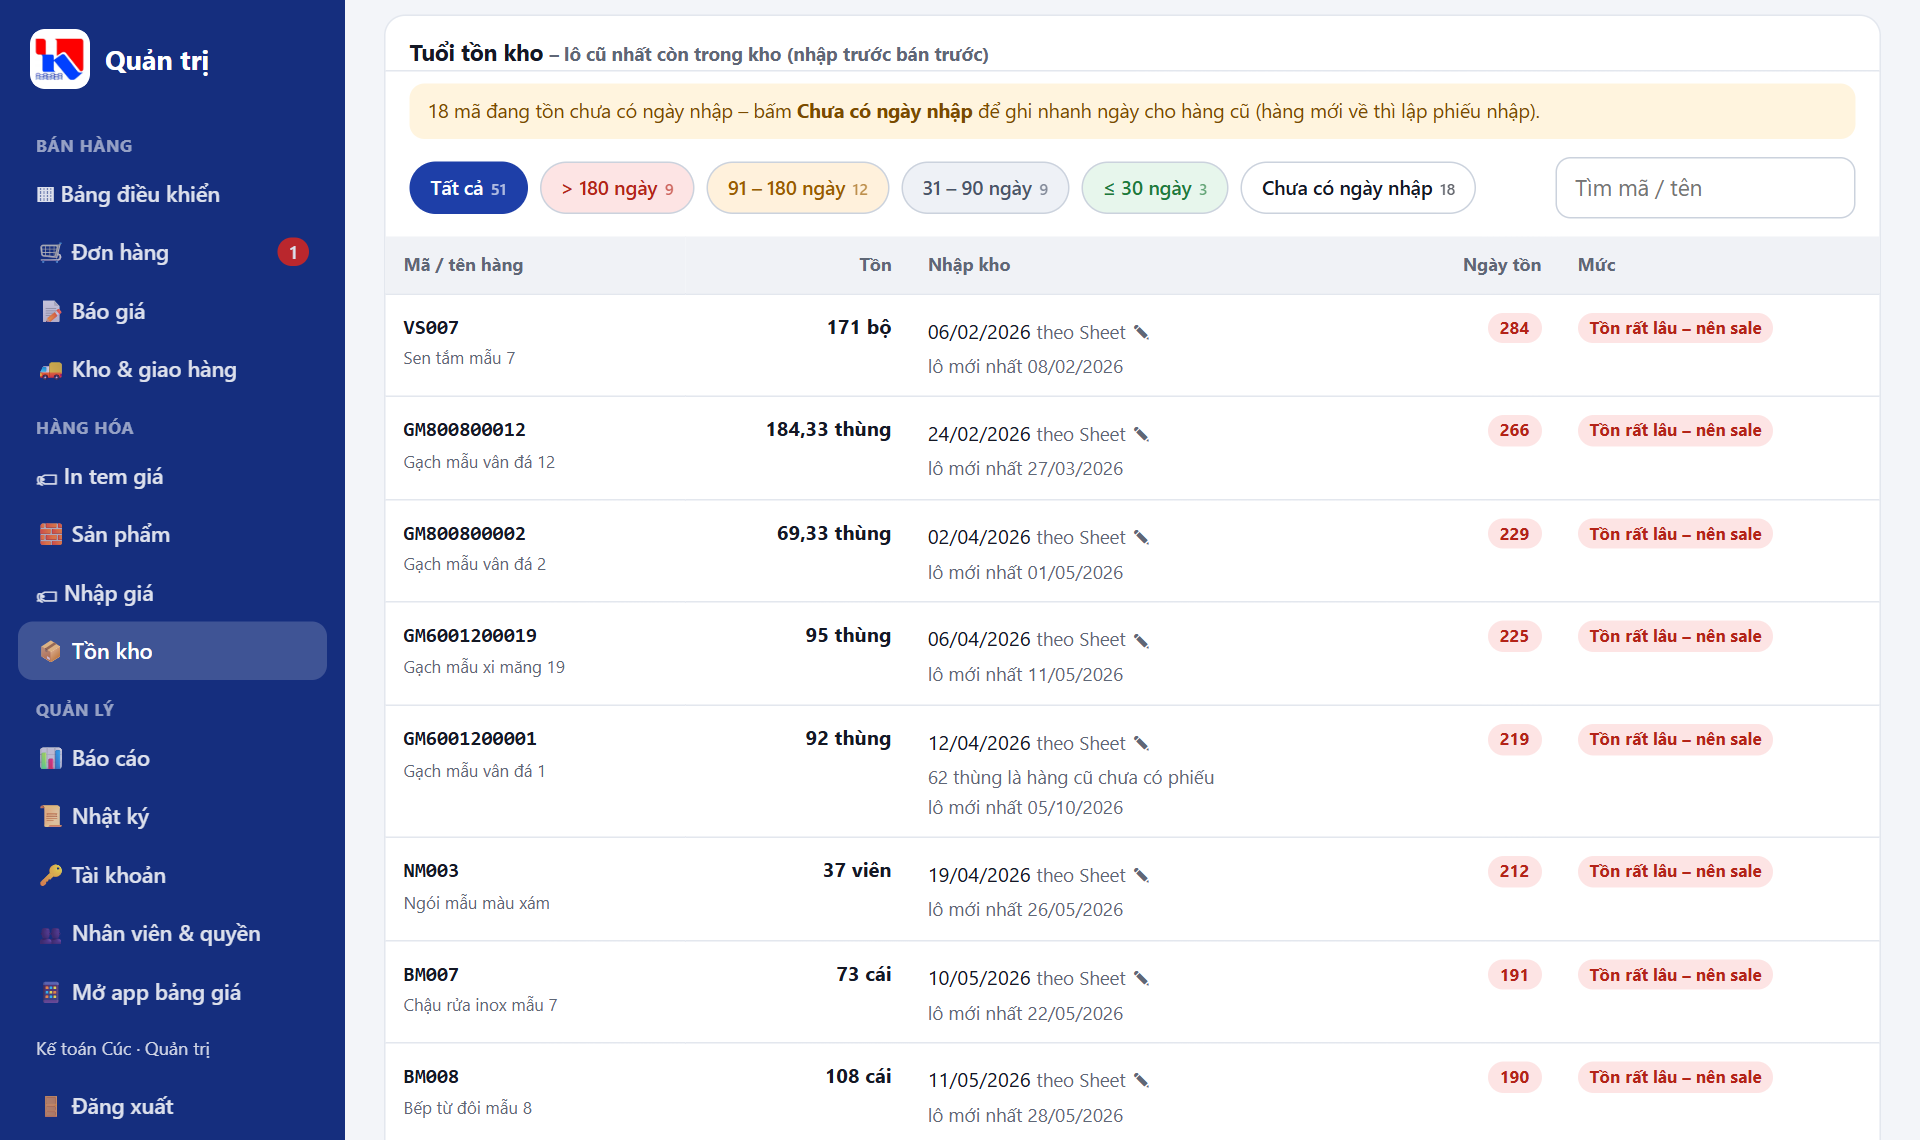
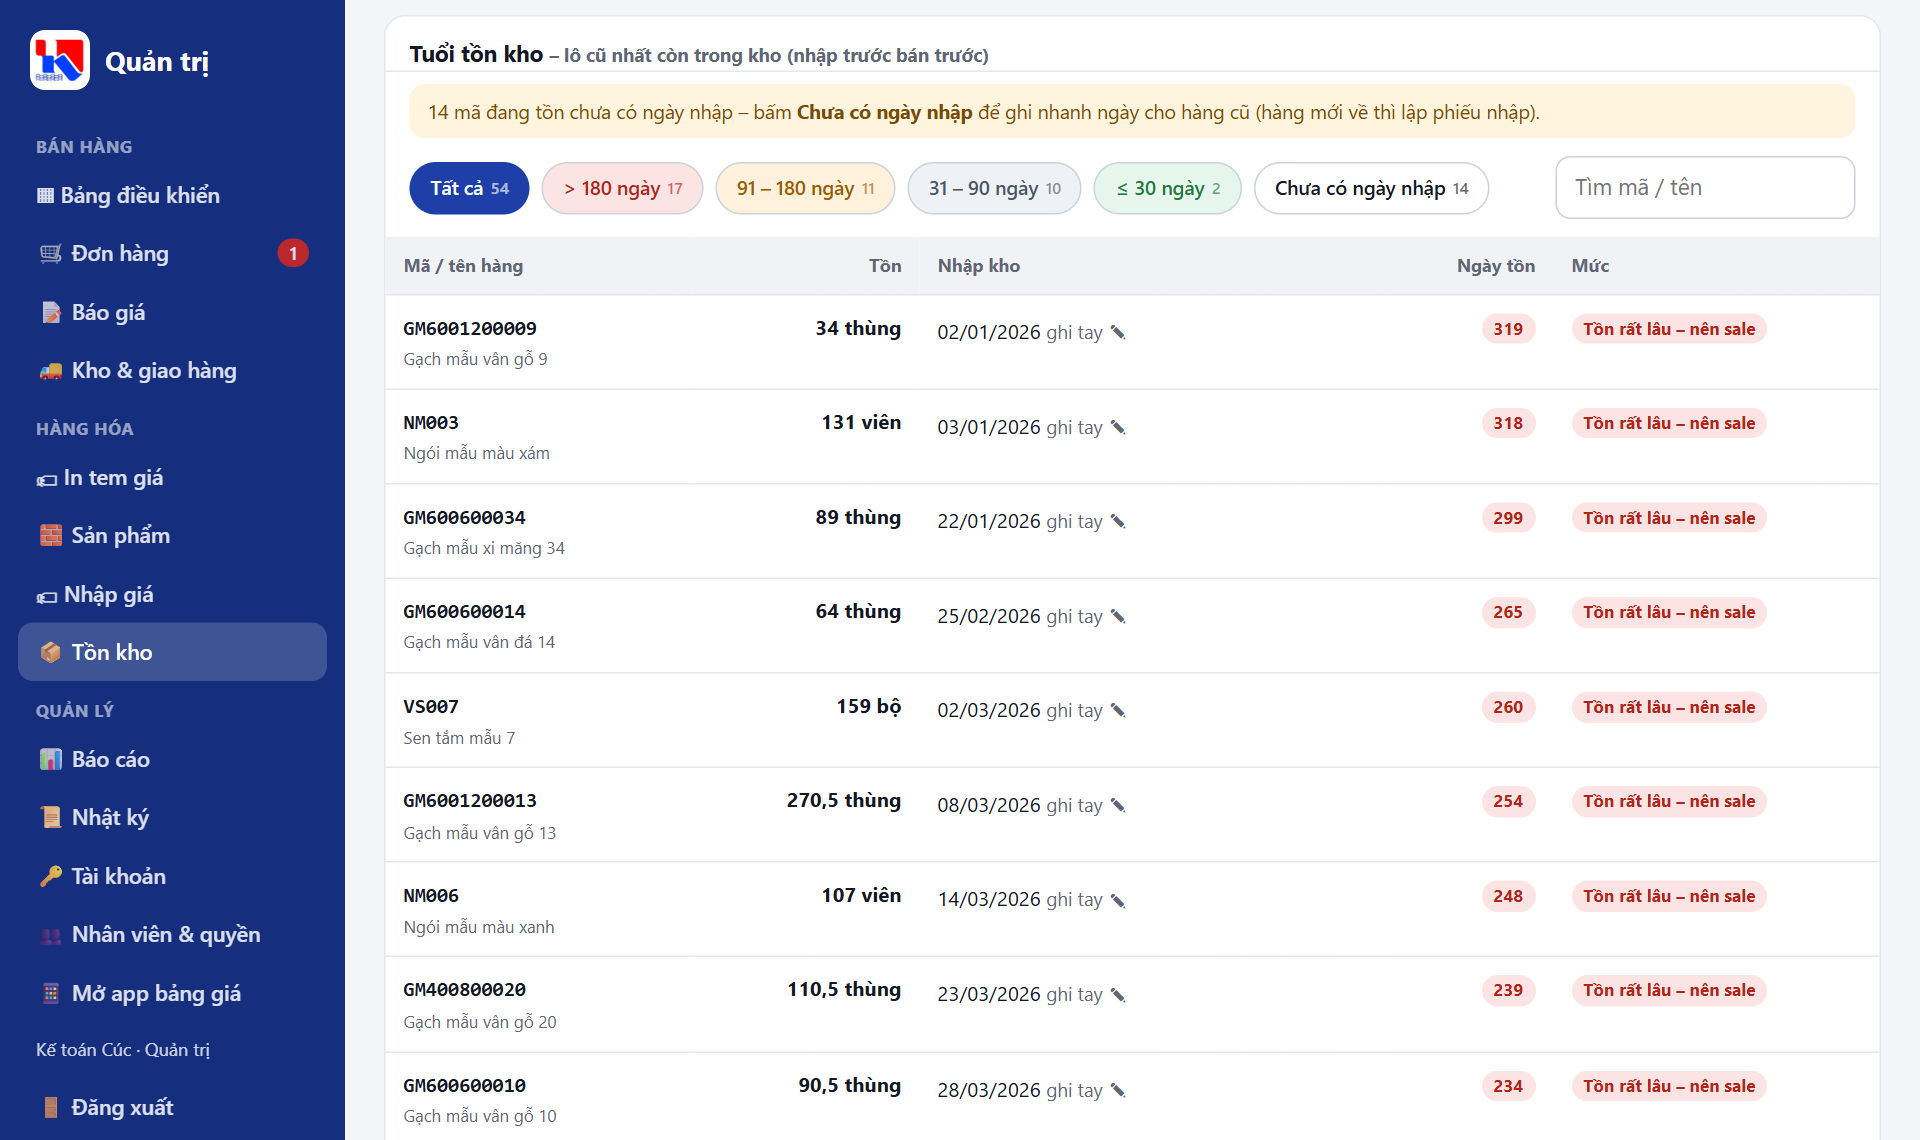
docs: video 3 cap nhat - ngay nhap hang cu la ngay ghi tay; demo: ngay nhap luu nhu ghi tay

diff --git a/huong-dan/nguon-video-3/canh3.js b/huong-dan/nguon-video-3/canh3.js
@@ -13,7 +13,7 @@ module.exports = [
   { phan: 'Phần 1 · Phiếu nhập', tieuDe: 'Danh sách phiếu nhập', y: ['Phiếu mới nhất ở trên', 'Bấm 1 phiếu → sửa hoặc xóa', 'Mọi thao tác ghi vào Nhật ký', 'Số lượng tồn vẫn theo Sheet Tồn kho'], hinh: 'b2',
     loi: 'Phiếu vừa lưu hiện ngay trong danh sách. Bấm vào một phiếu để sửa hoặc xóa, mọi thao tác đều ghi vào nhật ký. Lưu ý: phiếu nhập không cộng thêm vào số tồn. Số lượng tồn vẫn lấy theo Sheet Tồn kho từ phần mềm kho. Phiếu nhập chỉ cho app biết hàng nhập ngày nào.' },
 
-  { phan: 'Phần 2 · Tuổi tồn', tieuDe: 'Nhập trước – bán trước', y: ['Lấy các phiếu mới nhất cộng dồn tới đủ số tồn', 'Lô cũ nhất còn lại = ngày tính tuổi tồn', 'Thiếu phiếu: phần còn lại là hàng cũ', 'Hàng cũ: ngày ghi tay hoặc cột Sheet'], hinh: 'fifo',
+  { phan: 'Phần 2 · Tuổi tồn', tieuDe: 'Nhập trước – bán trước', y: ['Lấy các phiếu mới nhất cộng dồn tới đủ số tồn', 'Lô cũ nhất còn lại = ngày tính tuổi tồn', 'Thiếu phiếu: phần còn lại là hàng cũ', 'Hàng cũ: dùng ngày ghi tay (✎)'], hinh: 'fifo',
     loi: 'Phần hai, cách app tính tuổi tồn: nhập trước, bán trước. Ví dụ trong kho còn hai trăm mười hai thùng. App lấy các phiếu nhập mới nhất cộng dồn: sáu mươi thùng ngày năm tháng mười một, năm mươi thùng ngày hai lăm tháng mười. Phần còn lại là hàng cũ. Lô cũ nhất còn trong kho quyết định số ngày tồn.' },
   { phan: 'Phần 2 · Tuổi tồn', tieuDe: 'Bảng tuổi tồn kho', y: ['≤ 30 ngày xanh · 31–90 xám', '91–180 cam · trên 180 đỏ – nên sale', 'Lọc theo mức · tìm mã', 'Tồn lâu nhất xếp lên đầu'], hinh: 'b3',
     loi: 'Bảng tuổi tồn kho nằm ngay bên dưới. Mỗi mã có ngày nhập, số ngày đã tồn và màu: dưới ba mươi ngày màu xanh, tới chín mươi ngày màu xám, tới một trăm tám mươi ngày màu cam, quá một trăm tám mươi ngày màu đỏ, nên bán sale. Bấm các nút phía trên để lọc theo mức, hoặc gõ tìm mã.' },

diff --git a/demo-data.js b/demo-data.js
@@ -6,7 +6,7 @@
 (function () {
   var HANG = ['Hãng Mẫu A', 'Hãng Mẫu B', 'Hãng Mẫu C'];
   var KHO = [['Kho Trung tâm', 'nhanh'], ['Kho Chi nhánh', 'mai'], ['Kho Hãng', 'cho']];
-  var data = [], ton = {}, seed = 7;
+  var data = [], ton = {}, seed = 7, NGAY_TAY0 = {};
   function rnd(n) { seed = (seed * 9301 + 49297) % 233280; return Math.floor(seed / 233280 * n); }
   function chon(a) { return a[rnd(a.length)]; }
 
@@ -43,8 +43,7 @@
       d.kho.push({ ten: k[0], nhom: k[1], tong: sl, lo: lo }); d.tong += sl; d.tier[k[1]] += sl;
     });
     var nhap = new Date(Date.now() - (3 + rnd(320)) * 86400000), iso = function (x) { return x.getFullYear() + '-' + ('0' + (x.getMonth() + 1)).slice(-2) + '-' + ('0' + x.getDate()).slice(-2); };
-    if (rnd(4) === 0) { /* chưa có ngày nhập */ } else { d.nhap = iso(nhap); d.nhapMoi = iso(new Date(Math.min(Date.now() - 86400000, nhap.getTime() + rnd(40) * 86400000))); }
-    if (d.nhap) d.kho.forEach(function (k) { k.lo[0].ngay = d.nhap; if (k.lo[1]) k.lo[1].ngay = d.nhapMoi; });
+    if (rnd(4) !== 0) NGAY_TAY0[p.ma] = iso(nhap); // ngày ghi tay (Sheet chính), ~1/4 mã chưa có ngày
     if (d.tong) ton[p.ma] = d;
   });
 
@@ -277,7 +276,7 @@
     return tre({ status: 'ok' });
   };
   // Ngày nhập: phiếu nhập (nhập trước bán trước) -> ghi tay -> cột Sheet (giống máy chủ)
-  var phieuDemo = [], ngayTayDemo = {};
+  var phieuDemo = [], ngayTayDemo = NGAY_TAY0;
   function apNgayDemo(d, ma) {
     var ton0 = d.tonGoc !== undefined ? d.tonGoc : d.tong, ds = [];
     phieuDemo.forEach(function (p) { p.items.forEach(function (x) { if (x.ma === ma) ds.push({ ngay: p.ngay, sl: x.sl, so: p.ma }); }); });

diff --git a/huong-dan/nguon-video-3/chup3.js b/huong-dan/nguon-video-3/chup3.js
@@ -12,7 +12,7 @@ const go = (sel, v) => `var o = document.querySelector(${JSON.stringify(sel)}); 
 
 (async () => {
   const ch = await moChrome();
-  const chup = async (p, ten, ngan) => { await cho(500); await p.chup(path.join(OUT, ten + '.png'), ngan ? { x: 1280 - 620, width: 620 } : null); console.log('chụp', ten); };
+  const chup = async (p, ten, ngan) => { await cho(500); await p.chay('var t = document.getElementById("toast"); if (t) t.style.visibility = "hidden";'); await p.chup(path.join(OUT, ten + '.png'), ngan ? { x: 1280 - 620, width: 620 } : null); console.log('chụp', ten); };
 
   // ===== Trang quản trị (máy tính) =====
   let p = await ch.trang();

diff --git a/quan-tri.js b/quan-tri.js
@@ -1413,5 +1413,5 @@
     veMenu(); ve(); taiDon();
     clearInterval(batDau._t); batDau._t = setInterval(function () { if (!document.hidden) taiDon(true); }, 60000); // tự làm mới mỗi phút
   }
-  if (DEMO) { var sc = document.createElement('script'); sc.src = 'demo-data.js?v=18'; sc.onload = batDau; document.head.appendChild(sc); } else batDau();
+  if (DEMO) { var sc = document.createElement('script'); sc.src = 'demo-data.js?v=19'; sc.onload = batDau; document.head.appendChild(sc); } else batDau();
 })();

diff --git a/app.js b/app.js
@@ -1500,7 +1500,7 @@
   document.addEventListener('visibilitychange', function () { if (!document.hidden && !DEMO) kiemTraBanMoi(); });
   if (DEMO) {
     var sc = document.createElement('script');
-    sc.src = 'demo-data.js?v=18'; sc.onload = batDau;
+    sc.src = 'demo-data.js?v=19'; sc.onload = batDau;
     sc.onerror = function () { document.body.innerHTML = '<p style="padding:20px">Chưa cấu hình APPS_URL trong config.js.</p>'; };
     document.head.appendChild(sc);
   } else batDau();
